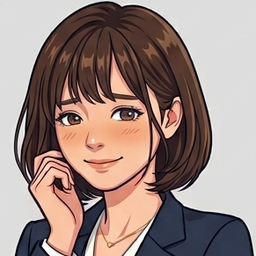
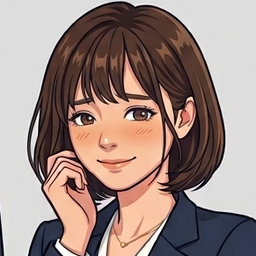
fix: 戻るボタンの視認性・秘書子との重なり・立ち絵の寄りを修正
- 「戻る」がヘッダーの背景に同化していた。後ろにある button.ghost の
  色指定に負けていたため、ヘッダー側で白と輪郭を明示した
- 入力欄が中央寄せで、右下に常駐する秘書子と重なっていた。左寄せにした
- 丸枠の中で立ち絵が左に寄っていた。髪の重心から頭の中心を求め、
  6種すべてを頭の中心で切り直した

diff --git a/src/renderer/styles.css b/src/renderer/styles.css
@@ -60,13 +60,18 @@ header button {
   font-size: 12.5px;
 }
 header button:hover { background: rgba(255, 255, 255, .16); border-color: #fff; }
-header button.ghost { border-color: transparent; padding-left: 6px; padding-right: 8px; }
-header button.ghost:hover { background: rgba(255, 255, 255, .16); }
+header button.ghost {
+  color: #fff;
+  border-color: rgba(255, 255, 255, .55);
+  padding-left: 10px;
+  padding-right: 12px;
+}
+header button.ghost:hover { color: #fff; background: rgba(255, 255, 255, .16); border-color: #fff; }
 
 main {
-  padding: 16px 20px 28px;
+  padding: 16px 20px 44px;
   max-width: 880px;
-  margin: 0 auto;
+  margin: 0;
 }
 
 /* --- カード --- */
